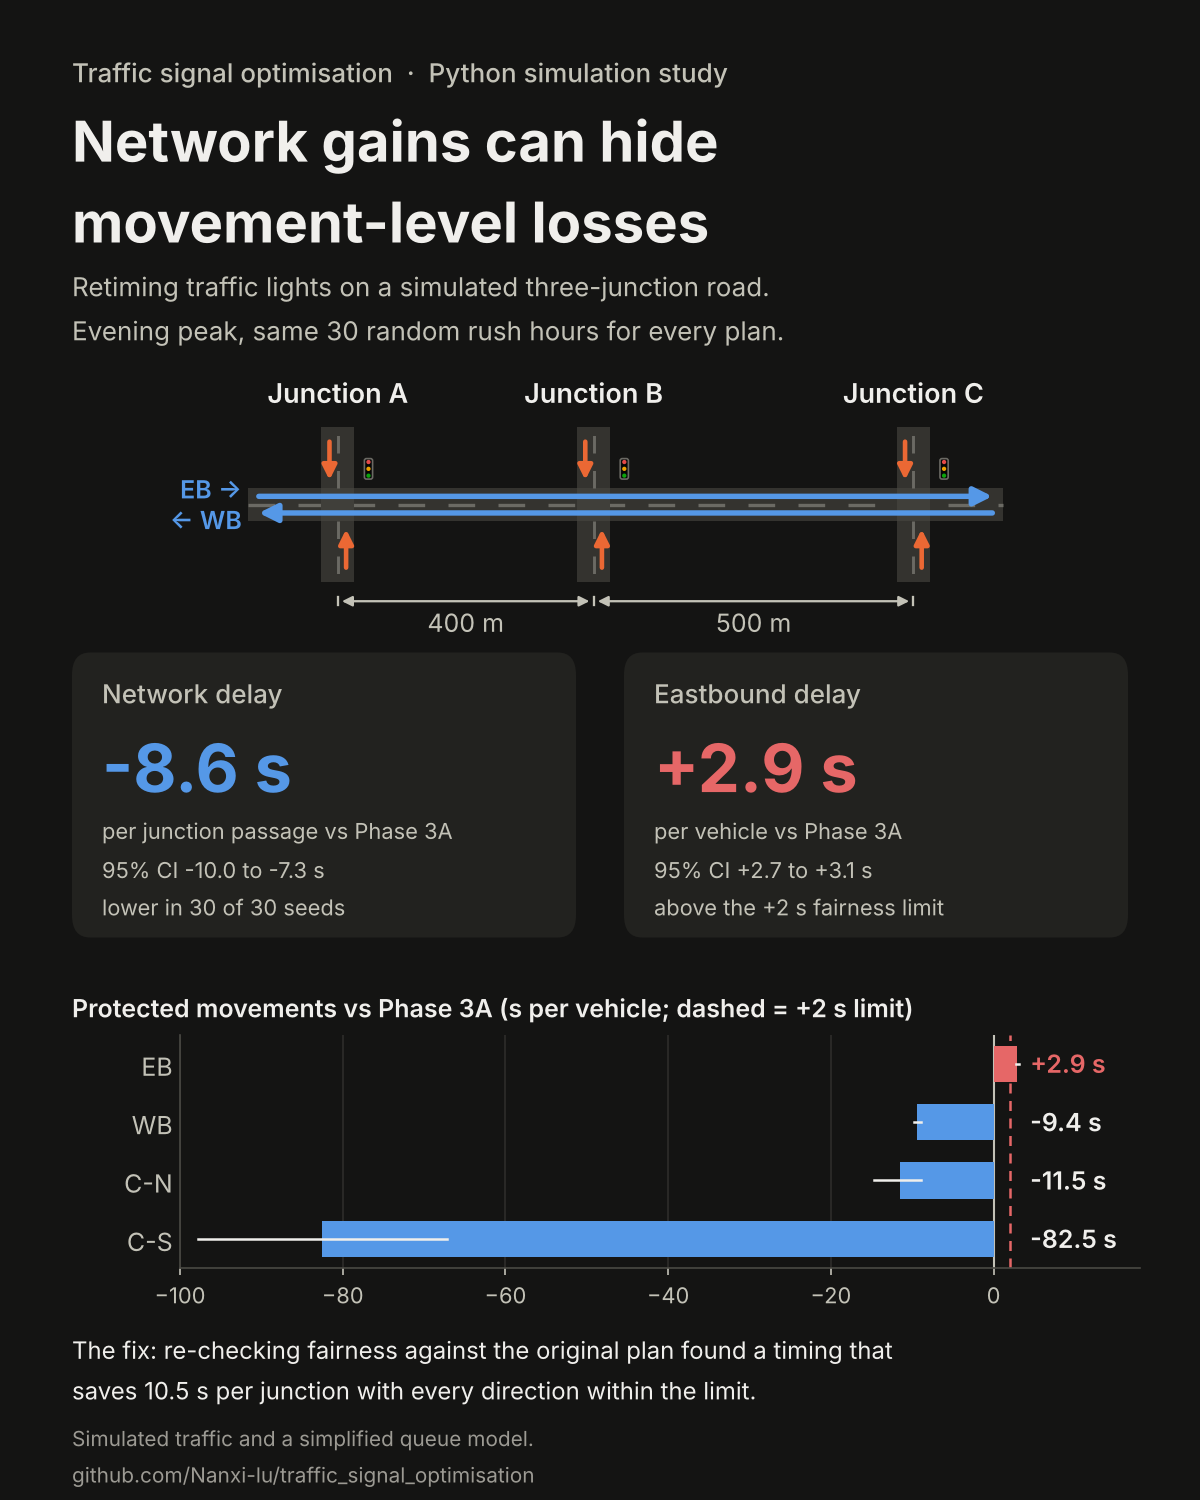
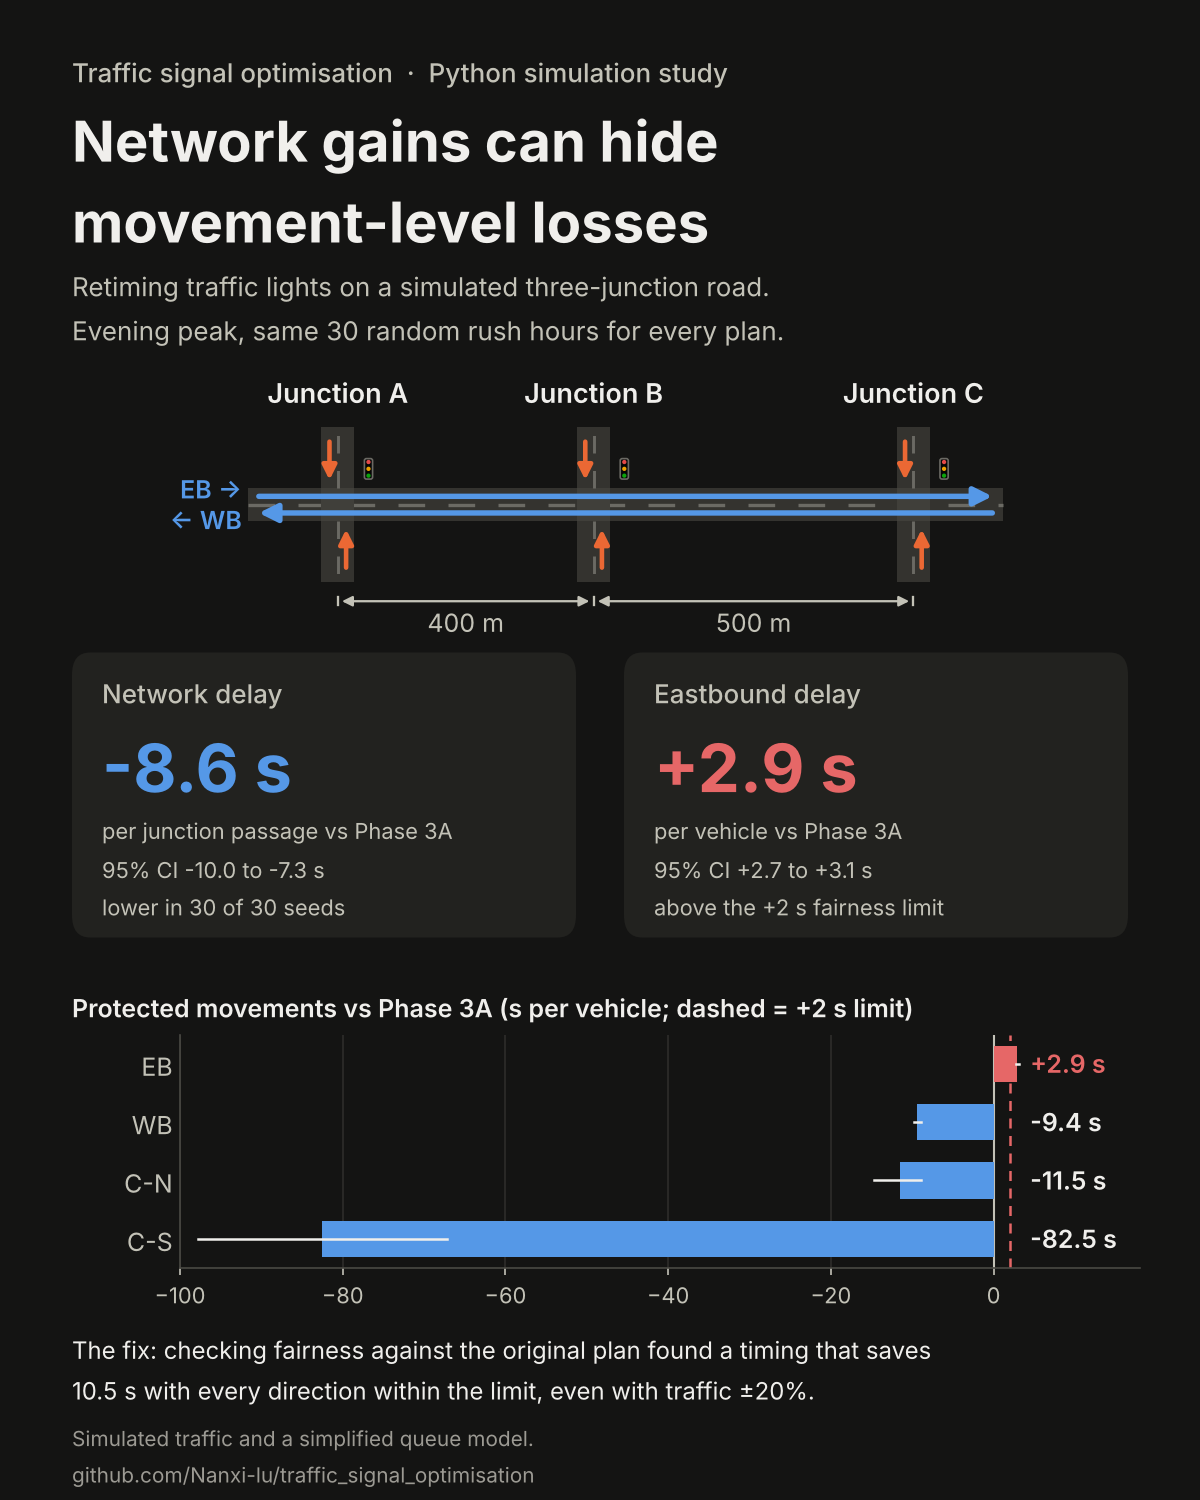
update visualisation for the demand stress test
Website section, README table, dashboard note, methodology, LinkedIn draft
and image now show that Phase 4H holds from 80 to 120 percent demand.

Claude-Session: https://claude.ai/code/session_01EMtSDoEuAJXFMgNgt3tGpS

Changed region(s): [[0.0617, 0.8893, 0.7708, 0.9507]]

diff --git a/docs/index.html b/docs/index.html
@@ -213,6 +213,7 @@ code { font-size: 0.92em; background: var(--panel); padding: 1px 5px; border-rad
         fairness limit I set at the start.</li>
       <li>A follow-up search that checked fairness against the original plan found a timing that saves
         <strong>10.5 seconds</strong> and keeps every direction within the limit.</li>
+      <li>That timing still kept every direction within the limit with traffic 20% lower or higher.</li>
       <li>The same search for the morning peak found no such timing, so a small trade-off remains there.</li>
     </ul>
   </section>
@@ -248,8 +249,26 @@ code { font-size: 0.92em; background: var(--panel); padding: 1px 5px; border-rad
     <div class="plainbox" id="amNote"></div>
   </section>
 
+  <section id="stress" aria-labelledby="stress-h">
+    <h2 id="stress-h">3. Does the fix hold if traffic changes?</h2>
+    <div class="plainbox">Real traffic is never exactly what a plan was designed for. Phase 4J ran the Phase 4H plan,
+      unchanged, with all traffic 20% lower up to 20% higher, on 30 more simulated rush hours at each level.</div>
+    <div class="card">
+      <h3>Eastbound change in wait per car (s) at each traffic level</h3>
+      <div class="chart" id="stressChart"></div>
+      <div class="legend">
+        <span style="--c: var(--na)">Integrated plan</span>
+        <span style="--c: var(--lower)">Phase 4H plan</span>
+      </div>
+      <div class="table-scroll" style="margin-top:10px"><table id="stressTable"></table></div>
+      <p class="caption">Change against the original plan, with 95% intervals. Each traffic level uses the same 30
+        simulated rush hours for all plans.</p>
+    </div>
+    <p class="section-intro" id="stressNote"></p>
+  </section>
+
   <section id="corridor" aria-labelledby="corridor-h">
-    <h2 id="corridor-h">3. The road</h2>
+    <h2 id="corridor-h">4. The road</h2>
     <p class="section-intro">Three junctions on a made-up main road. At each one the lights alternate: main road
       green, then side roads green.</p>
     <div class="card">
@@ -258,7 +277,7 @@ code { font-size: 0.92em; background: var(--panel); padding: 1px 5px; border-rad
   </section>
 
   <section id="explorer" aria-labelledby="explorer-h">
-    <h2 id="explorer-h">4. Explore the results</h2>
+    <h2 id="explorer-h">5. Explore the results</h2>
     <div class="plainbox">Pick a time of day and two plans. Bars to the left of zero mean less waiting with the
       candidate plan. Ticks and crosses show whether each protected direction stayed within the 2-second limit.
       These are the Phase 4G results for the original three plans.</div>
@@ -311,7 +330,7 @@ code { font-size: 0.92em; background: var(--panel); padding: 1px 5px; border-rad
   </section>
 
   <section id="method" aria-labelledby="method-h">
-    <h2 id="method-h">5. How it was built</h2>
+    <h2 id="method-h">6. How it was built</h2>
     <div class="grid-2">
       <div class="card method">
         <dl>
@@ -555,6 +574,51 @@ code { font-size: 0.92em; background: var(--panel); padding: 1px 5px; border-rad
       In the morning a small trade-off remains, and the only plan that is fair against the original is the original itself.`;
   }
 
+
+  // ------------------------------------------------------------ stress test
+  function renderStress() {
+    const rows = DATA.phase4j.rows;
+    const levels = [...new Set(rows.map((r) => r.factor))].sort((a, b) => a - b);
+    const get = (f, c) => rows.find((r) => r.factor === f && r.candidate === c);
+    const H = 250, top = 16, bottom = H - 46;
+    const { svg, width } = svgFor($("stressChart"), H);
+    const left = 44, right = width - 14;
+    const sy = scale(0, 4, bottom, top);
+    const step = (right - left) / levels.length;
+    [0, 1, 2, 3, 4].forEach((t) => {
+      el("line", { x1: left, x2: right, y1: sy(t), y2: sy(t), stroke: css("--grid") }, svg);
+      text(svg, left - 6, sy(t) + 4, `+${t}`, { "text-anchor": "end", fill: css("--muted"), "font-size": 11 });
+    });
+    el("line", { x1: left, x2: right, y1: sy(2), y2: sy(2), stroke: css("--fail"), "stroke-dasharray": "4 3", "stroke-width": 1.5 }, svg);
+    text(svg, right, sy(2) - 5, "2 s limit", { "text-anchor": "end", fill: css("--fail"), "font-size": 11.5 });
+    levels.forEach((f, i) => {
+      const cx = left + step * (i + 0.5);
+      [["Integrated", -9], ["Phase4H", 9]].forEach(([c, dx]) => {
+        const r = get(f, c);
+        const colour = r.all_within_limit ? css("--lower") : (c === "Integrated" ? css("--na") : css("--fail"));
+        const x = cx + dx;
+        el("line", { x1: x, x2: x, y1: sy(r.eb_ci[0]), y2: sy(r.eb_ci[1]), stroke: colour, "stroke-width": 3, "stroke-linecap": "round" }, svg);
+        const dot = el("circle", { cx: x, cy: sy(r.eb_change), r: 5.5, fill: colour, stroke: css("--surface"), "stroke-width": 2 }, svg);
+        hover(dot, `<strong>${c === "Phase4H" ? "Phase 4H" : "Integrated"}, ${Math.round(f * 100)}% traffic</strong><br>Eastbound ${fmt(r.eb_change)} s per car<br>95% interval ${fmt(r.eb_ci[0])} to ${fmt(r.eb_ci[1])}`);
+      });
+      text(svg, cx, bottom + 18, `${Math.round(f * 100)}%`, { "text-anchor": "middle", fill: css("--ink-2"), "font-size": 12 });
+    });
+    el("line", { x1: left, x2: right, y1: bottom, y2: bottom, stroke: css("--axis") }, svg);
+    text(svg, (left + right) / 2, bottom + 38, "Traffic level (100% = design level)", { "text-anchor": "middle", "font-size": 12.5 });
+
+    $("stressTable").innerHTML = `<thead><tr><th>Traffic</th><th>Phase 4H: average wait</th><th>Phase 4H: every direction</th><th>Integrated: eastbound</th></tr></thead><tbody>` +
+      levels.map((f) => {
+        const h = get(f, "Phase4H"), i = get(f, "Integrated");
+        return `<tr><td>${Math.round(f * 100)}%</td><td>${fmt(h.network_change, 1)} s</td>
+          <td class="${h.all_within_limit ? "check-pass" : "check-fail"}">${h.all_within_limit ? "\u2713 within limit" : "\u2717 over"}</td>
+          <td class="${i.eb_ci[1] <= 2 ? "check-pass" : "check-fail"}">${fmt(i.eb_change, 1)} s ${i.eb_ci[1] <= 2 ? "\u2713" : "\u2717 over"}</td></tr>`;
+      }).join("") + "</tbody>";
+    const allPass = levels.every((f) => get(f, "Phase4H").all_within_limit);
+    $("stressNote").textContent = allPass
+      ? "Phase 4H kept every protected direction within the limit at every traffic level, with eastbound steady at about +1.3 s. It also beat the original plan on average wait at every level, by more as traffic got heavier. At 120% the road is heavily overloaded, so the very large savings there are the least realistic numbers on this page."
+      : "Phase 4H did not stay within the limit at every traffic level; see the table.";
+  }
+
   // ------------------------------------------------------------ explorer
   function current() {
     const p = $("period").value, b = $("benchmark").value, c = $("candidate").value;
@@ -749,6 +813,7 @@ code { font-size: 0.92em; background: var(--panel); padding: 1px 5px; border-rad
     if (!DATA) return;
     renderCorridor();
     renderFix();
+    renderStress();
     renderExplorer();
   }
 
@@ -766,6 +831,7 @@ code { font-size: 0.92em; background: var(--panel); padding: 1px 5px; border-rad
       fill($("candidate"), DATA.meta.candidates, "Integrated", label);
       renderHeadline();
       renderFix();
+      renderStress();
       renderAll();
       let t;
       window.addEventListener("resize", () => { clearTimeout(t); t = setTimeout(renderAll, 120); });

diff --git a/scripts/export_site_data.py b/scripts/export_site_data.py
@@ -126,6 +126,32 @@ def build_phase4i() -> dict:
     }
 
 
+def build_phase4j() -> dict:
+    """Saved Phase 4J stress test: Phase 4H and Integrated at 80% to 120% demand."""
+
+    import pandas as pd
+
+    network = pd.read_csv(DATA_DIR / "phase4j_network_summary.csv")
+    movements = pd.read_csv(DATA_DIR / "phase4j_movement_summary.csv")
+    protected = movements.loc[movements["protected_movement"]]
+    rows = []
+    for (factor, candidate), group in protected.groupby(["demand_factor", "candidate"]):
+        net = network.loc[(network["demand_factor"] == factor) & (network["candidate"] == candidate)].iloc[0]
+        eb = group.set_index("movement").loc["EB"]
+        rows.append(
+            {
+                "factor": float(factor),
+                "candidate": candidate,
+                "network_change": _r(net["mean_delay_change_s"]),
+                "network_ci": [_r(net["ci_lower_s"]), _r(net["ci_upper_s"])],
+                "eb_change": _r(eb["mean_delay_change_s"]),
+                "eb_ci": [_r(eb["ci_lower_s"]), _r(eb["ci_upper_s"])],
+                "all_within_limit": bool(group["passes_2s_upper"].all()),
+            }
+        )
+    return {"seeds": [800, 829], "rows": rows}
+
+
 def build_site_data() -> dict:
     data = load_phase4g_data(DATA_DIR)
     network, movements, plans = data["network"], data["movements"], data["plans"]
@@ -211,6 +237,7 @@ def build_site_data() -> dict:
     return {
         "phase4h": followup,
         "phase4i": build_phase4i(),
+        "phase4j": build_phase4j(),
         "meta": {
             "description": (
                 "Saved Phase 4G audit of a synthetic three-junction corridor. "

diff --git a/scripts/make_portfolio_figures.py b/scripts/make_portfolio_figures.py
@@ -621,8 +621,8 @@ def make_linkedin_figure(data: dict[str, pd.DataFrame]) -> list[Path]:
     h_gain = -h_net.loc[("Phase3A", "Phase4H"), "mean_delay_change_s"]
     fig.text(
         0.06, 0.112,
-        f"The fix: re-checking fairness against the original plan found a timing that\n"
-        f"saves {h_gain:.1f} s per junction with every direction within the limit.",
+        f"The fix: checking fairness against the original plan found a timing that saves\n"
+        f"{h_gain:.1f} s with every direction within the limit, even with traffic \u00b120%.",
         fontsize=11.5, color=d["ink"], va="top", linespacing=1.4,
     )
     fig.text(

diff --git a/streamlit_app.py b/streamlit_app.py
@@ -303,7 +303,8 @@ with overview_tab:
                 f"(seeds 620 to 649). Network delay {h['net']:+.2f} s per passage, eastbound "
                 f"{h['eb']:+.2f} s and westbound {h['wb']:+.2f} s per car: every protected "
                 f"direction within the limit. Junction C side roads get {h['ns']:.0f} s of green "
-                f"instead of 46 s.",
+                f"instead of 46 s. A stress test (Phase 4J) found the same result with all traffic "
+                f"20% lower up to 20% higher.",
                 icon="✅",
             )
 

diff --git a/README.md b/README.md
@@ -17,7 +17,7 @@ for each direction of travel.
 8.6 seconds per junction, but eastbound drivers waited 2.9 seconds longer, breaking the
 2-second fairness limit set at the start. A follow-up search (Phase 4H) that checked
 fairness against the original plan found a timing that saves 10.5 seconds and keeps every
-protected direction within the limit. The same search for the morning peak (Phase 4I)
+protected direction within the limit, even with traffic 20% lower or higher. The same search for the morning peak (Phase 4I)
 found no such timing: there, a small trade-off remains.
 
 ---
@@ -118,6 +118,23 @@ On the new test runs, compared with Phase 3A:
 The trade-off moves rather than disappears. Compared with Phase 4E, westbound drivers wait
 5.4 s longer, but they still come out 2.5 s better off than under the original plan.
 
+### Does the fix hold if traffic changes? (Phase 4J)
+
+Real traffic never matches the design exactly. Phase 4J ran the Phase 4H plan, unchanged,
+with all traffic scaled from 80% to 120%, on 30 new simulated rush hours at each level.
+Compared with Phase 3A:
+
+| Traffic | Phase 4H: average wait | Phase 4H: eastbound | Phase 4H: every direction | Integrated: eastbound |
+|---|---:|---:|---|---:|
+| 80% | -1.8 s | +1.26 s | within limit | +2.69 s, over |
+| 90% | -3.7 s | +1.31 s | within limit | +2.84 s, over |
+| 100% | -9.8 s | +1.28 s | within limit | +2.88 s, over |
+| 110% | -16.5 s | +1.30 s | within limit | +2.99 s, over |
+| 120% | -25.3 s | +1.29 s | within limit | +3.05 s, over |
+
+The fix holds at every level, and the eastbound result barely moves. At 120% the road is
+heavily overloaded, so the very large savings there are the least realistic numbers.
+
 ### The morning peak (Phase 4I)
 
 The same search, run under the same rules for the morning peak, found **no** Junction C
@@ -177,7 +194,8 @@ In the evening peak every junction runs a 150 s cycle. The Integrated plan gives
 6. **Green split.** Junction C's side roads were over capacity in the peaks, so its green split
    and offset were searched together.
 7. **Audits.** Phase 4G froze the three plans and tested them on 30 fresh seeds per period.
-   Phases 4H and 4I repeated the Junction C search against the original plan.
+   Phases 4H and 4I repeated the Junction C search against the original plan, and Phase 4J
+   tested the Phase 4H plan with traffic 20% lower to 20% higher.
 
 Each result is a mean of 30 paired differences with a 95% bootstrap interval. A direction
 passes when the top of its interval is no more than +2 s per car.
@@ -249,7 +267,7 @@ traffic_signal_optimisation/
 │   ├── stage1_2_timing.py        Phases 1 and 2: demand checks and fixed timing plans
 │   ├── stage3_coordination.py    Phase 3: coordination and offset optimisation
 │   ├── stage4a_4e_corridor.py    Phases 4A to 4E: corridor simulation
-│   └── stage4f_4g_full_junction.py Phases 4F to 4I: full junctions, audits and follow-ups
+│   └── stage4f_4g_full_junction.py Phases 4F to 4J: full junctions, audits and follow-ups
 ├── scripts/                      Figure and website data builders
 ├── outputs/                      Saved CSV results and research figures for every phase
 ├── figures/                      Figures used in this README

diff --git a/docs/methodology.md b/docs/methodology.md
@@ -1,6 +1,6 @@
 # Methodology and development record
 
-This document preserves the full Phase 1 to Phase 4I technical record that previously formed
+This document preserves the full Phase 1 to Phase 4J technical record that previously formed
 the main README. The [README](../README.md) now gives a short case-study overview; this page
 is the reference for how every saved output was produced.
 
@@ -16,9 +16,10 @@ comparisons, but no real-world traffic performance improvement is claimed.
 5. [Phase 4G evidence and the dashboard data layer](#phase-4g-evidence-and-the-dashboard-data-layer)
 6. [Phase 4H: fairness against the original baseline](#phase-4h-fairness-against-the-original-baseline)
 7. [Phase 4I: the morning peak under the same rules](#phase-4i-the-morning-peak-under-the-same-rules)
-8. [Saved outputs](#outputs)
-9. [Limitations by phase](#limitations-and-next-steps)
-10. [Proposed extensions](#proposed-extensions)
+8. [Phase 4J: demand stress test of the Phase 4H plan](#phase-4j-demand-stress-test-of-the-phase-4h-plan)
+9. [Saved outputs](#outputs)
+10. [Limitations by phase](#limitations-and-next-steps)
+11. [Proposed extensions](#proposed-extensions)
 
 ## Scope
 
@@ -567,6 +568,33 @@ would need their own pre-specified protocol and fresh seeds.
 Outputs: `phase4i_screening.csv`, `phase4i_training_candidates.csv`,
 `phase4i_training_fairness.csv` and `phase4i_selected_plan.csv` (which records that no
 plan was selected) in `outputs/data/`.
+
+## Phase 4J: demand stress test of the Phase 4H plan
+
+Phase 4H was chosen and tested at the demand level of the synthetic PM peak. Phase 4J
+(`python -m workflows phase4j`) checks whether its result depends on that level. Every
+approach's 15-minute counts, and so every Poisson arrival rate, are multiplied by 0.8, 0.9,
+1.0, 1.1 and 1.2. At each factor, Phase 3A, Integrated and the frozen Phase 4H plan are run on
+the same 30 fresh seeds (800 to 829, fixed in advance and unused elsewhere). Nothing is
+re-tuned.
+
+| Demand | Phase 4H network change (s/passage) | Phase 4H EB (s/veh, upper) | All four protected pass | Integrated EB (s/veh, upper) |
+|---|---:|---:|---|---:|
+| 80% | -1.80 (-2.05 to -1.58) | +1.264 (+1.438) | yes | +2.686 (+2.914), fail |
+| 90% | -3.74 (-4.34 to -3.15) | +1.314 (+1.470) | yes | +2.836 (+3.037), fail |
+| 100% | -9.84 (-11.78 to -8.06) | +1.276 (+1.433) | yes | +2.881 (+3.076), fail |
+| 110% | -16.48 (-17.92 to -14.88) | +1.296 (+1.449) | yes | +2.988 (+3.191), fail |
+| 120% | -25.27 (-26.78 to -23.87) | +1.286 (+1.427) | yes | +3.055 (+3.235), fail |
+
+Phase 4H passes all four protected checks at every factor and reduces network delay in all
+30 seeds at every factor. Integrated fails the eastbound check at every factor. At 80% and
+90% demand Integrated has slightly lower network delay than Phase 4H (by 0.47 and 0.11 s per
+passage); from 100% upwards Phase 4H is lower. At 110% and 120% the network is heavily
+oversaturated (Phase 3A averages 94 and 144 s per passage), where unlimited queue storage
+makes the model least realistic, so those magnitudes should be read with care.
+
+Outputs: `phase4j_network_metrics.csv`, `phase4j_movement_metrics.csv`,
+`phase4j_network_summary.csv` and `phase4j_movement_summary.csv` in `outputs/data/`.
 
 ## Outputs
 

diff --git a/docs/linkedin_post_draft.md b/docs/linkedin_post_draft.md
@@ -29,6 +29,9 @@ not the original, so small increases quietly added up.
 • Rerunning the search against the original plan, and testing it on 30 new rush hours,
 found a timing that saves 10.5 seconds with every direction within the limit.
 
+• I then stress-tested it with traffic 20% lower and 20% higher. It stayed within the
+limit at every level.
+
 The lesson for me: an average can hide who pays for an improvement, and which baseline
 you compare against matters as much as the optimisation itself.
 
@@ -55,7 +58,7 @@ On a simulated three-junction road, the best plan cut the evening-peak wait by 8
 per junction, but eastbound drivers waited 2.9 seconds longer, over my 2-second limit. The
 cause: I had checked fairness against an improved plan, not the original. Rerunning the
 search against the original found a timing that saves 10.5 seconds with every direction
-within the limit.
+within the limit, and it held with traffic 20% lower or higher.
 
 An average can hide who pays for a gain.
 
@@ -65,7 +68,7 @@ https://nanxi-lu.github.io/traffic_signal_optimisation/
 
 ## Notes
 
-- Numbers come from `phase4g_*` (8.6 s, 2.9 s, 30/30) and `phase4h_*` (10.5 s) in
-  `outputs/data/`. The 10.5 s is measured on a fresh set of 30 runs (seeds 620 to 649).
+- Numbers come from `phase4g_*` (8.6 s, 2.9 s, 30/30), `phase4h_*` (10.5 s, on fresh seeds
+  620 to 649) and `phase4j_*` (80% to 120% demand, seeds 800 to 829) in `outputs/data/`.
 - "Educational project" and "simulates" carry the context; no further disclaimers needed.
 - Bullets use "•" because LinkedIn does not render Markdown lists.
